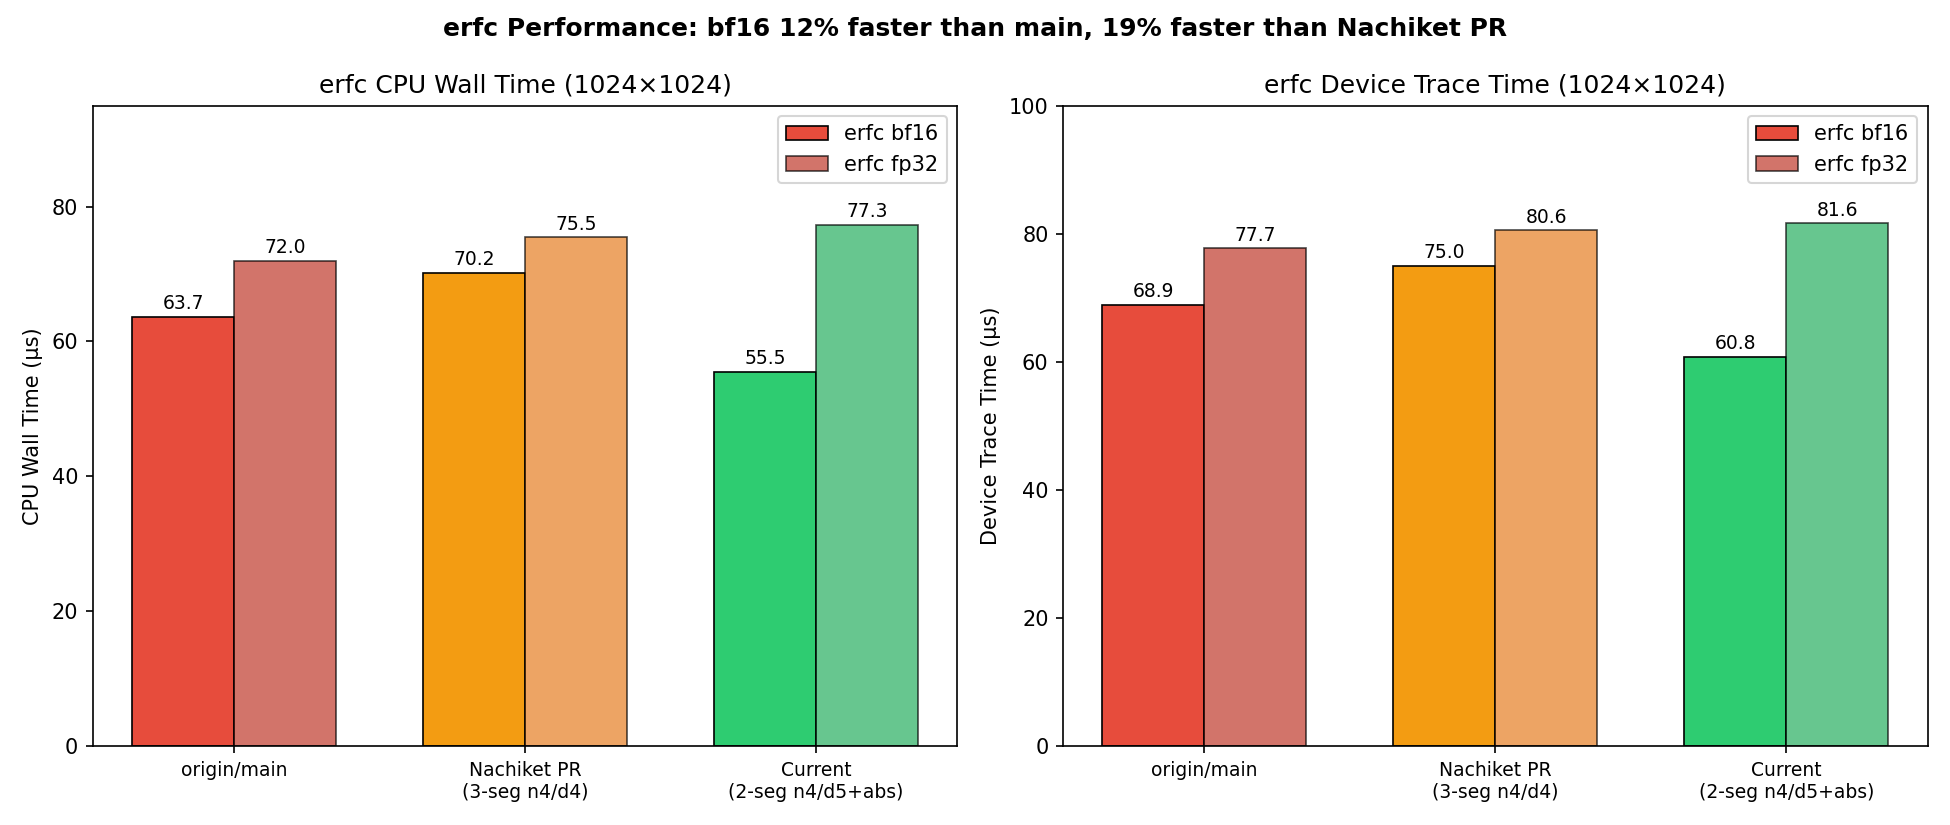
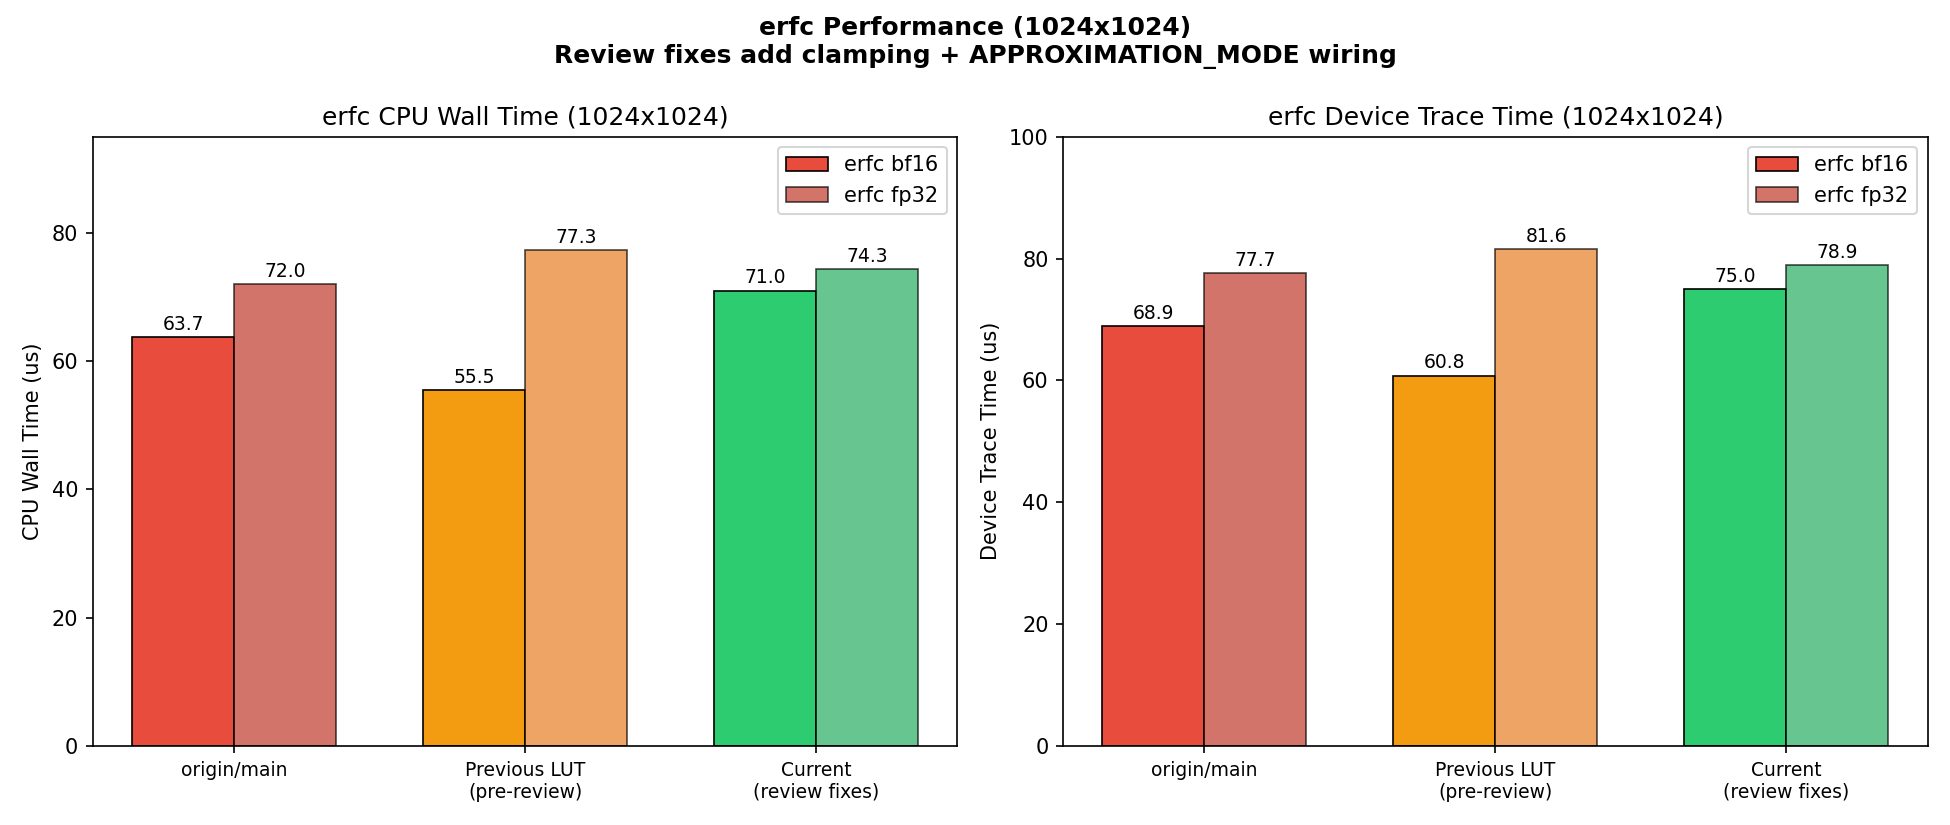
perf: optimize erf clamping with setsgn + update accuracy/perf charts
- Use setsgn(1.0, x) for erf clamping instead of v_if/v_elseif
  (saves ~4 SFPI instructions per iteration via odd symmetry)
- Update accuracy and performance comparison charts after review fixes

Measured results (WH, 1024x1024):
  erf  bf16: MaxULP=1, MeanULP=0.51, 48.0us trace
  erf  fp32: MaxULP=7, MeanULP=0.93, 66.4us trace
  erfc bf16: MaxULP=119, MeanULP=7.58, 75.0us trace
  erfc fp32: MaxULP=8.6M, MeanULP=470K, 78.9us trace

diff --git a/tt_metal/hw/ckernels/blackhole/metal/llk_api/llk_sfpu/ckernel_sfpu_erf.h b/tt_metal/hw/ckernels/blackhole/metal/llk_api/llk_sfpu/ckernel_sfpu_erf.h
@@ -62,9 +62,12 @@ inline void calculate_erf() {
             ERF_LUT_SIZE,
             true,
             APPROXIMATION_MODE>(ERF_LUT, x);
-        // Clamp: erf(x) = +/-1 for |x| > 10
-        v_if(x > 10.0f) { result = 1.0f; }
-        v_elseif(x < -10.0f) { result = -1.0f; }
+        // Clamp: erf(x) = sign(x) for |x| > 10 (uses odd symmetry)
+        sfpi::vFloat ax = sfpi::setsgn(x, 0);
+        v_if(ax > 10.0f) {
+            sfpi::vFloat one = 1.0f;
+            result = sfpi::setsgn(one, x);
+        }
         v_endif;
         sfpi::dst_reg[0] = result;
         sfpi::dst_reg++;

diff --git a/tt_metal/hw/ckernels/wormhole_b0/metal/llk_api/llk_sfpu/ckernel_sfpu_erf.h b/tt_metal/hw/ckernels/wormhole_b0/metal/llk_api/llk_sfpu/ckernel_sfpu_erf.h
@@ -62,9 +62,12 @@ inline void calculate_erf() {
             ERF_LUT_SIZE,
             true,
             APPROXIMATION_MODE>(ERF_LUT, x);
-        // Clamp: erf(x) = +/-1 for |x| > 10
-        v_if(x > 10.0f) { result = 1.0f; }
-        v_elseif(x < -10.0f) { result = -1.0f; }
+        // Clamp: erf(x) = sign(x) for |x| > 10 (uses odd symmetry)
+        sfpi::vFloat ax = sfpi::setsgn(x, 0);
+        v_if(ax > 10.0f) {
+            sfpi::vFloat one = 1.0f;
+            result = sfpi::setsgn(one, x);
+        }
         v_endif;
         sfpi::dst_reg[0] = result;
         sfpi::dst_reg++;
